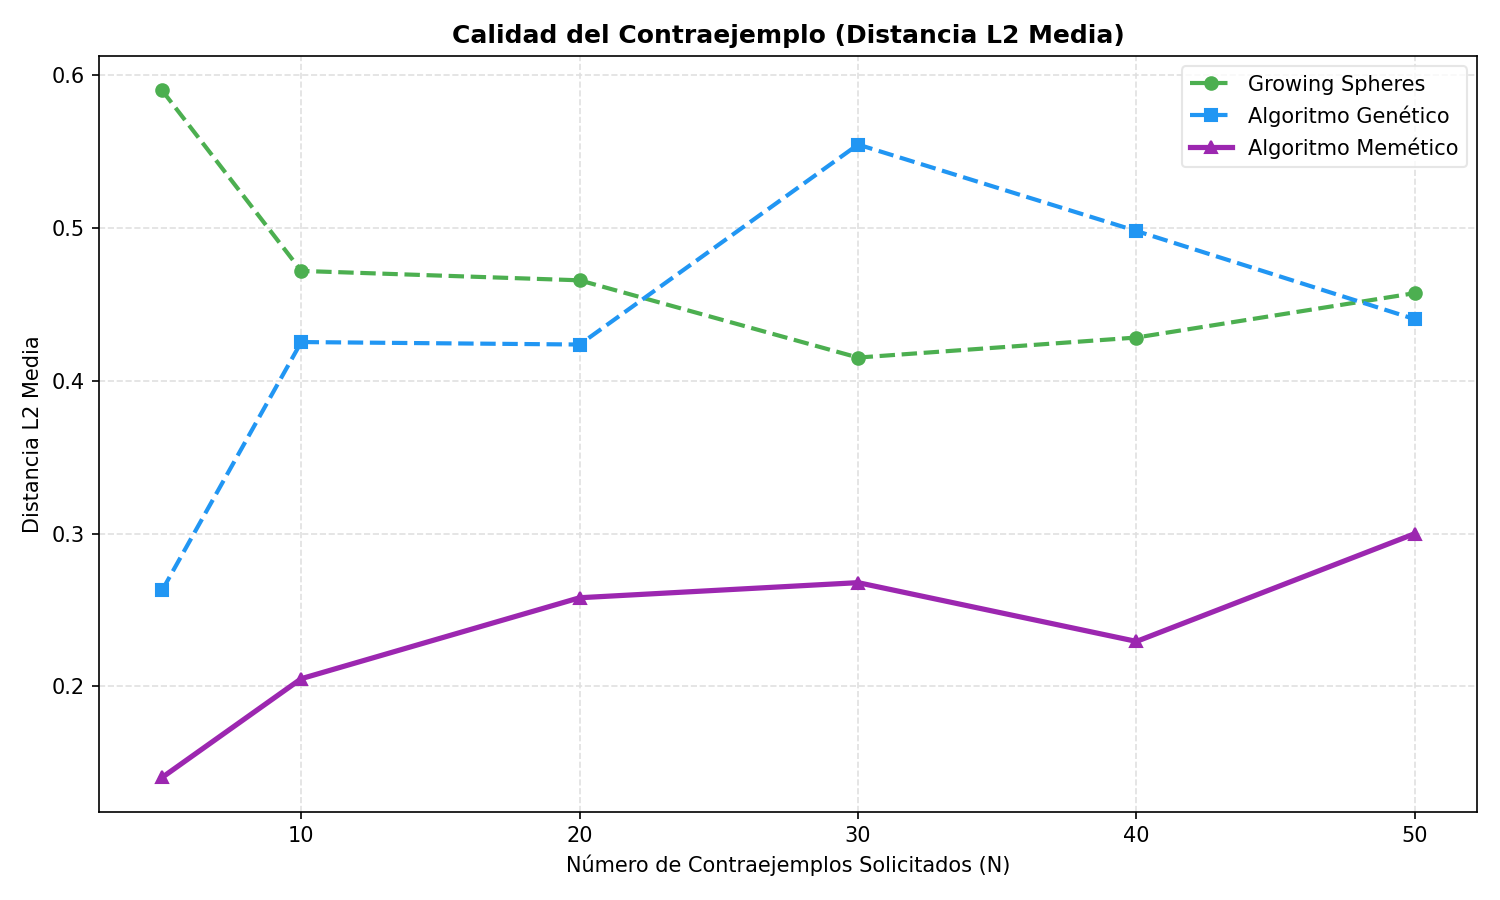
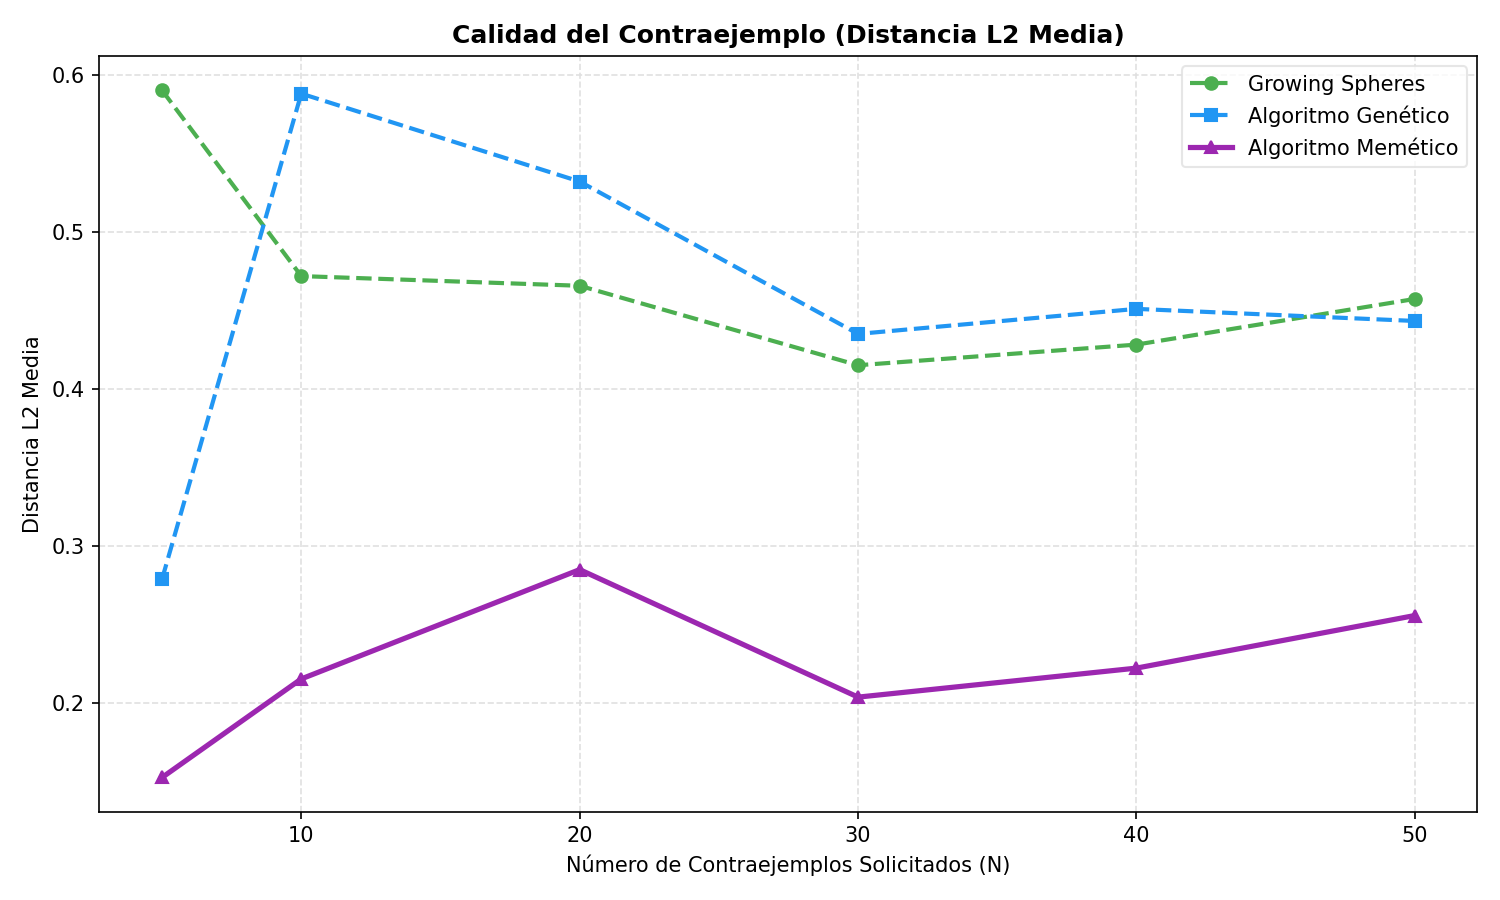
eliminado [+]

diff --git a/src/visualizacion/analisis.py b/src/visualizacion/analisis.py
@@ -239,7 +239,7 @@ def graficar_contraejemplos(df, nombres=None, score=None, var_x=None, var_y=None
         if directorio:
             os.makedirs(directorio, exist_ok=True)
         plt.savefig(ruta_guardar, dpi=150)
-        print(f"[+] Gráfico guardado en: {ruta_guardar}")
+        print(f"Gráfico guardado en: {ruta_guardar}")
     plt.show()
 
 if __name__ == "__main__":